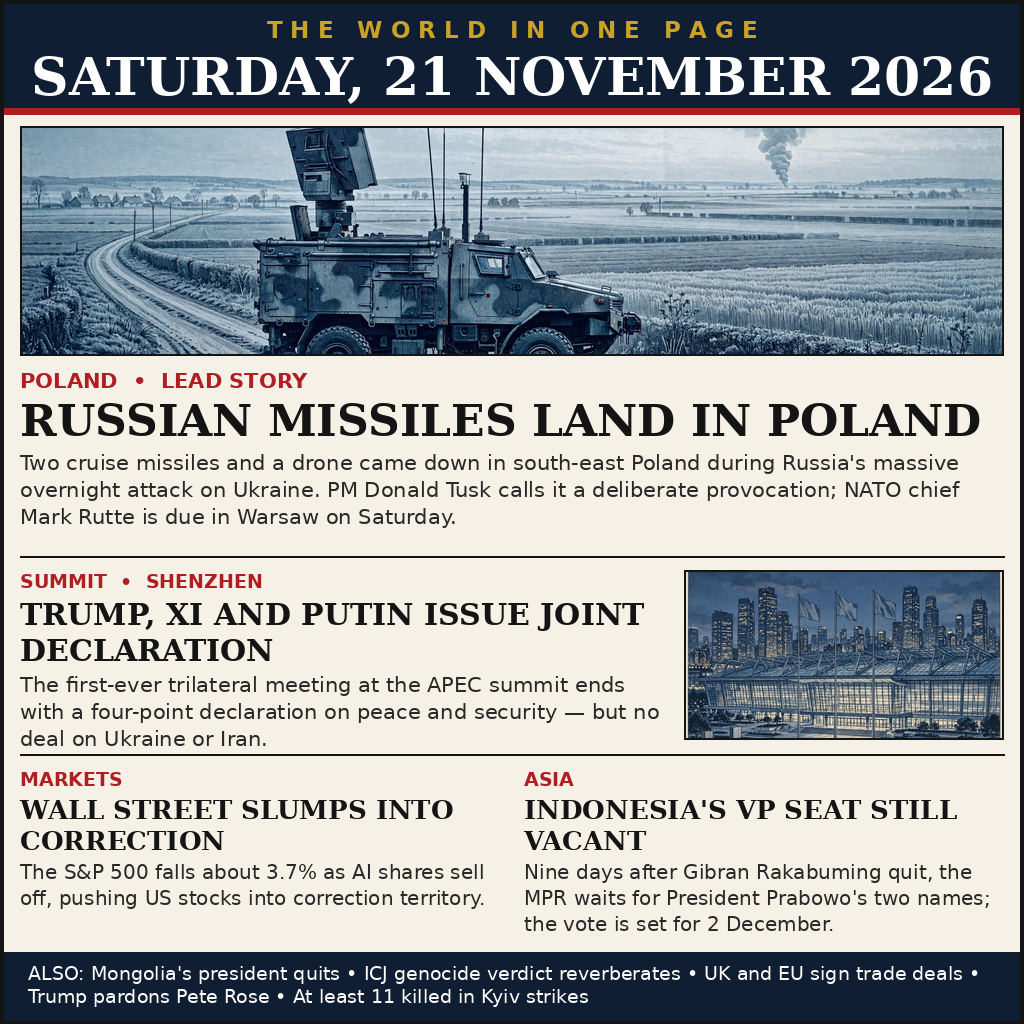
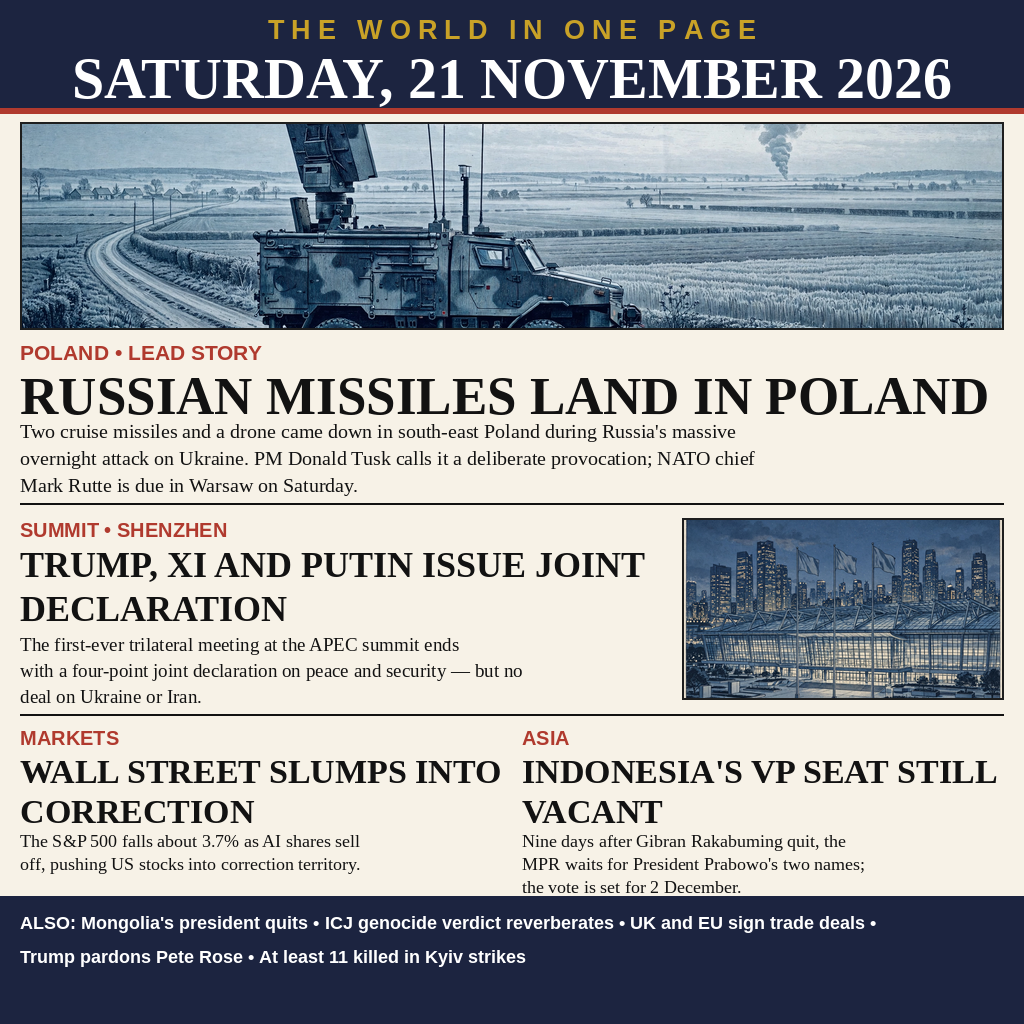
Rewrite draw_news21.py from scratch; regenerate entry.png with it

diff --git a/draw_news21.py b/draw_news21.py
@@ -1,200 +1,217 @@
 #!/usr/bin/env python3
-"""Compose the 21 November 2026 world-news front page (1024x1024).
+"""Compose the 21 November 2026 newspaper front page (entry.png).
 
-Layout (my own design for this edition): a navy masthead naming the day,
-a wide lead photograph with headline and deck, a second story with its
-picture on the right and text on the left, two short panels side by side,
-and a navy ticker footer. Two text-free press illustrations live in
-assets/ (a Polish air-defence radar vehicle at dawn; the Shenzhen
-convention centre at dusk). Every word is set here with PIL so the text
-stays crisp. Deterministic: fixed inputs, no clock, no randomness.
-Writes entry.png next to this file; if the PNG would pass 1 MiB it
-writes JPEG bytes instead (same filename).
+Fresh implementation: PIL composites the two generated press-style
+illustrations in assets/ with programmatic typesetting (no AI text).
+
+Run:  python3 draw_news21.py   -> writes entry.png (1024x1024, < 1 MiB)
 """
-import os
+from pathlib import Path
 
 from PIL import Image, ImageDraw, ImageFont
 
-HERE = os.path.dirname(os.path.abspath(__file__))
-ASSETS = os.path.join(HERE, "assets")
-
+BASE = Path(__file__).resolve().parent
 W, H = 1024, 1024
 MARGIN = 20
-INNER = W - 2 * MARGIN
 
-PAPER = (246, 241, 231)
-INK = (20, 20, 20)
-NAVY = (15, 30, 51)
-RED = (176, 30, 36)
+PAPER = (247, 242, 231)
+NAVY = (28, 36, 64)
 GOLD = (201, 162, 39)
-GREY = (40, 40, 40)
+RED = (176, 58, 46)
+INK = (18, 18, 18)
+FRAME = (30, 30, 30)
 WHITE = (255, 255, 255)
 
-SERIF_BOLD = "/usr/share/fonts/truetype/dejavu/DejaVuSerif-Bold.ttf"
-SANS_BOLD = "/usr/share/fonts/truetype/dejavu/DejaVuSans-Bold.ttf"
-SANS = "/usr/share/fonts/truetype/dejavu/DejaVuSans.ttf"
+SERIF = [
+    "/usr/share/fonts/truetype/liberation/LiberationSerif-Regular.ttf",
+    "/usr/share/fonts/truetype/dejavu/DejaVuSerif.ttf",
+]
+SERIF_BOLD = [
+    "/usr/share/fonts/truetype/liberation/LiberationSerif-Bold.ttf",
+    "/usr/share/fonts/truetype/dejavu/DejaVuSerif-Bold.ttf",
+]
+SANS = [
+    "/usr/share/fonts/truetype/liberation/LiberationSans-Regular.ttf",
+    "/usr/share/fonts/truetype/dejavu/DejaVuSans.ttf",
+]
+SANS_BOLD = [
+    "/usr/share/fonts/truetype/liberation/LiberationSans-Bold.ttf",
+    "/usr/share/fonts/truetype/dejavu/DejaVuSans-Bold.ttf",
+]
 
-_cache = {}
+_font_cache = {}
 
 
-def font(path, size):
-    key = (path, size)
-    if key not in _cache:
-        _cache[key] = ImageFont.truetype(path, size)
-    return _cache[key]
+def font(paths, size):
+    """First usable font from the candidate list, cached per size."""
+    key = (tuple(paths), size)
+    if key in _font_cache:
+        return _font_cache[key]
+    for path in paths:
+        try:
+            found = ImageFont.truetype(path, size)
+            _font_cache[key] = found
+            return found
+        except (OSError, IOError):
+            continue
+    found = ImageFont.load_default()
+    _font_cache[key] = found
+    return found
 
 
-def fit(draw, text, path, size, max_width):
-    """Largest size at or below `size` that fits `max_width`."""
-    while size > 10 and draw.textlength(text, font=font(path, size)) > max_width:
+def fit(paths, text, start, width, minimum=10):
+    """Largest font size (<= start) at which text fits inside width."""
+    size = start
+    while size > minimum:
+        candidate = font(paths, size)
+        if candidate.getlength(text) <= width:
+            return candidate
         size -= 1
-    return font(path, size)
+    return font(paths, minimum)
 
 
-def wrap(draw, text, fnt, max_width):
-    lines, cur = [], ""
-    for word in text.split():
-        trial = (cur + " " + word).strip()
-        if draw.textlength(trial, font=fnt) <= max_width:
-            cur = trial
-        elif cur:
-            lines.append(cur)
-            cur = word
-        else:
-            cur = word
-    if cur:
-        lines.append(cur)
-    return lines
+def tracked_width(f, text, tracking):
+    return sum(f.getlength(ch) for ch in text) + tracking * max(0, len(text) - 1)
 
 
-def para(draw, x, y, lines, fnt, fill, leading):
+def draw_tracked(d, cx, y, text, f, fill, tracking):
+    """Draw text centred on cx with extra space between letters."""
+    total = tracked_width(f, text, tracking)
+    x = cx - total / 2
+    for ch in text:
+        d.text((x, y), ch, font=f, fill=fill)
+        x += f.getlength(ch) + tracking
+
+
+def cover(img, w, h, fx=0.5, fy=0.5):
+    """Scale the image to cover w x h, then crop around the focus point."""
+    iw, ih = img.size
+    scale = max(w / iw, h / ih)
+    nw, nh = round(iw * scale), round(ih * scale)
+    img = img.resize((nw, nh), Image.LANCZOS)
+    cx = min(max(fx * nw, w / 2), nw - w / 2)
+    cy = min(max(fy * nh, h / 2), nh - h / 2)
+    return img.crop((round(cx - w / 2), round(cy - h / 2),
+                     round(cx + w / 2), round(cy + h / 2)))
+
+
+def place_photo(page, box, path, focus=(0.5, 0.5)):
+    """Paste an illustration into box, cover-cropped, with a thin frame."""
+    x0, y0, x1, y1 = box
+    with Image.open(path) as im:
+        im = cover(im.convert("RGB"), x1 - x0, y1 - y0, *focus)
+    page.paste(im, (x0, y0))
+    d = ImageDraw.Draw(page)
+    d.rectangle([x0, y0, x1 - 1, y1 - 1], outline=FRAME, width=2)
+
+
+def headline(d, lines, x, y, width, start, leading):
+    """Bold serif headline; size shrinks until the widest line fits."""
+    probe = font(SERIF_BOLD, start)
+    widest = max(lines, key=lambda s: probe.getlength(s))
+    f = fit(SERIF_BOLD, widest, start, width)
     for line in lines:
-        draw.text((x, y), line, font=fnt, fill=fill)
+        d.text((x, y), line, font=f, fill=INK)
         y += leading
     return y
 
 
-def cover(image, width, height):
-    sw, sh = image.size
-    scale = max(width / sw, height / sh)
-    big = image.resize((round(sw * scale), round(sh * scale)), Image.LANCZOS)
-    left = (big.width - width) // 2
-    top = (big.height - height) // 2
-    return big.crop((left, top, left + width, top + height))
+def body_lines(d, lines, x, y, width, size, leading):
+    """Regular serif paragraph from pre-broken lines (each autofit)."""
+    for line in lines:
+        f = font(SERIF, size)
+        if f.getlength(line) > width:
+            f = fit(SERIF, line, size, width)
+        d.text((x, y), line, font=f, fill=INK)
+        y += leading
+    return y
 
 
-def kicker(draw, x, y, text, size=21):
-    draw.text((x, y), text, font=font(SANS_BOLD, size), fill=RED)
+def kicker(d, text, x, y, size=21):
+    f = font(SANS_BOLD, size)
+    d.text((x, y), text, font=f, fill=RED)
+    return y
 
 
-def head(draw, x, y, text, size, width, leading, fill=INK):
-    fnt = font(SERIF_BOLD, size)
-    return para(draw, x, y, wrap(draw, text, fnt, width), fnt, fill, leading)
+def rule(d, y, x0=MARGIN, x1=W - MARGIN, width=2):
+    d.rectangle([x0, y, x1 - 1, y + width - 1], fill=INK)
 
 
-def deck(draw, x, y, text, size, width, leading):
-    fnt = font(SANS, size)
-    return para(draw, x, y, wrap(draw, text, fnt, width), fnt, GREY, leading)
-
-
-def build():
-    poland = Image.open(os.path.join(
-        ASSETS,
-        "media-generation-poland-dawn-0-f03972f8-b11b-40e8-9a68-f937f0d83824.webp"))
-    shenzhen = Image.open(os.path.join(
-        ASSETS,
-        "media-generation-shenzhen-dusk-0-6ab2ed24-4f73-4426-be4b-20a1bf6cb004.webp"))
-
+def main():
     page = Image.new("RGB", (W, H), PAPER)
     d = ImageDraw.Draw(page)
-    d.rectangle([0, 0, W - 1, H - 1], outline=INK, width=4)
 
-    # Masthead.
-    d.rectangle([4, 4, W - 5, 108], fill=NAVY)
-    tag = "T H E   W O R L D   I N   O N E   P A G E"
-    tag_font = font(SANS_BOLD, 23)
-    d.text(((W - d.textlength(tag, font=tag_font)) / 2, 16),
-           tag, font=tag_font, fill=GOLD)
-    date = "SATURDAY, 21 NOVEMBER 2026"
-    date_font = fit(d, date, SERIF_BOLD, 56, INNER - 10)
-    d.text(((W - d.textlength(date, font=date_font)) / 2, 46),
-           date, font=date_font, fill=WHITE)
-    d.rectangle([4, 108, W - 5, 114], fill=RED)
+    # --- masthead ---
+    d.rectangle([0, 0, W - 1, 107], fill=NAVY)
+    d.rectangle([0, 108, W - 1, 113], fill=RED)
+    gold = font(SANS_BOLD, 27)
+    draw_tracked(d, W // 2, 14, "THE WORLD IN ONE PAGE", gold, GOLD, 7)
+    date_text = "SATURDAY, 21 NOVEMBER 2026"
+    date_f = fit(SERIF_BOLD, date_text, 58, W - 2 * MARGIN)
+    date_w = date_f.getlength(date_text)
+    d.text(((W - date_w) / 2, 46), date_text, font=date_f, fill=WHITE)
 
-    # Lead: Poland photograph, headline, deck.
-    page.paste(cover(poland, INNER, 230), (MARGIN, 126))
-    d.rectangle([MARGIN, 126, MARGIN + INNER - 1, 126 + 230 - 1],
-                outline=INK, width=2)
-    y = 368
-    kicker(d, MARGIN, y, "POLAND  •  LEAD STORY")
-    y = head(d, MARGIN, 394, "RUSSIAN MISSILES LAND IN POLAND",
-             44, INNER, 50)
-    y += 6
-    deck(d, MARGIN, y,
-         "Two cruise missiles and a drone came down in south-east Poland "
-         "during Russia's massive overnight attack on Ukraine. PM Donald "
-         "Tusk calls it a deliberate provocation; NATO chief Mark Rutte "
-         "is due in Warsaw on Saturday.",
-         21, INNER, 27)
+    # --- lead story: Poland ---
+    place_photo(page, (20, 122, 1004, 330),
+                BASE / "assets" / "media-generation-poland-dawn-0-f03972f8-b11b-40e8-9a68-f937f0d83824.webp",
+                focus=(0.5, 0.48))
+    kicker(d, "POLAND \u2022 LEAD STORY", 20, 340)
+    headline(d, ["RUSSIAN MISSILES LAND IN POLAND"], 20, 366, 984, 56, 60)
+    body_lines(d, [
+        "Two cruise missiles and a drone came down in south-east Poland during Russia's massive",
+        "overnight attack on Ukraine. PM Donald Tusk calls it a deliberate provocation; NATO chief",
+        "Mark Rutte is due in Warsaw on Saturday.",
+    ], 20, 420, 984, 20, 27)
+    rule(d, 503)
 
-    d.line([(MARGIN, 556), (MARGIN + INNER, 556)], fill=INK, width=2)
+    # --- second story: Shenzhen summit ---
+    kicker(d, "SUMMIT \u2022 SHENZHEN", 20, 518, size=20)
+    headline(d, ["TRUMP, XI AND PUTIN ISSUE JOINT", "DECLARATION"],
+             20, 544, 640, 40, 44)
+    body_lines(d, [
+        "The first-ever trilateral meeting at the APEC summit ends",
+        "with a four-point joint declaration on peace and security \u2014 but no",
+        "deal on Ukraine or Iran.",
+    ], 20, 634, 640, 19, 26)
+    place_photo(page, (682, 518, 1004, 700),
+                BASE / "assets" / "media-generation-shenzhen-dusk-0-6ab2ed24-4f73-4426-be4b-20a1bf6cb004.webp")
+    rule(d, 714)
 
-    # Second row: Shenzhen story, text left, picture right.
-    y0 = 570
-    tw = 640
-    kicker(d, MARGIN, y0, "SUMMIT  •  SHENZHEN", size=19)
-    y = head(d, MARGIN, y0 + 26,
-             "TRUMP, XI AND PUTIN ISSUE JOINT DECLARATION",
-             30, tw, 36)
-    deck(d, MARGIN, y + 4,
-         "The first-ever trilateral meeting at the APEC summit ends with "
-         "a four-point declaration on peace and security — but no deal "
-         "on Ukraine or Iran.",
-         21, tw, 27)
-    ix = MARGIN + tw + 24
-    page.paste(cover(shenzhen, INNER - tw - 24, 170), (ix, y0))
-    d.rectangle([ix, y0, ix + (INNER - tw - 24) - 1, y0 + 170 - 1],
-                outline=INK, width=2)
+    # --- bottom columns: markets and Asia ---
+    kicker(d, "MARKETS", 20, 726, size=20)
+    kicker(d, "ASIA", 522, 726, size=20)
+    headline(d, ["WALL STREET SLUMPS INTO", "CORRECTION"], 20, 752, 482, 36, 40)
+    headline(d, ["INDONESIA'S VP SEAT STILL", "VACANT"], 522, 752, 482, 36, 40)
+    body_lines(d, [
+        "The S&P 500 falls about 3.7% as AI shares sell",
+        "off, pushing US stocks into correction territory.",
+    ], 20, 830, 482, 18, 23)
+    body_lines(d, [
+        "Nine days after Gibran Rakabuming quit, the",
+        "MPR waits for President Prabowo's two names;",
+        "the vote is set for 2 December.",
+    ], 522, 830, 482, 18, 23)
 
-    d.line([(MARGIN, 754), (MARGIN + INNER, 754)], fill=INK, width=2)
+    # --- ticker ---
+    d.rectangle([0, 896, W - 1, H - 1], fill=NAVY)
+    ticker_lines = [
+        "ALSO: Mongolia's president quits \u2022 ICJ genocide verdict reverberates \u2022 UK and EU sign trade deals \u2022",
+        "Trump pardons Pete Rose \u2022 At least 11 killed in Kyiv strikes",
+    ]
+    for i, line in enumerate(ticker_lines):
+        f = font(SANS_BOLD, 18)
+        if f.getlength(line) > 984:
+            f = fit(SANS_BOLD, line, 18, 984)
+        d.text((20, 912 + i * 34), line, font=f, fill=WHITE)
 
-    # Third row: two panels.
-    col = (INNER - 24) // 2
-    y0 = 768
-    kicker(d, MARGIN, y0, "MARKETS", size=19)
-    y = head(d, MARGIN, y0 + 26, "WALL STREET SLUMPS INTO CORRECTION",
-             26, col, 31)
-    deck(d, MARGIN, y + 4,
-         "The S&P 500 falls about 3.7% as AI shares sell off, pushing "
-         "US stocks into correction territory.",
-         20, col, 26)
-
-    rx = MARGIN + col + 24
-    kicker(d, rx, y0, "ASIA", size=19)
-    y = head(d, rx, y0 + 26, "INDONESIA'S VP SEAT STILL VACANT",
-             26, col, 31)
-    deck(d, rx, y + 4,
-         "Nine days after Gibran Rakabuming quit, the MPR waits for "
-         "President Prabowo's two names; the vote is set for 2 December.",
-         20, col, 26)
-
-    # Footer ticker.
-    d.rectangle([4, 952, W - 5, 1020], fill=NAVY)
-    foot_font = font(SANS, 19)
-    ticker = ("ALSO:  Mongolia's president quits  •  ICJ genocide verdict "
-              "reverberates  •  UK and EU sign trade deals  •  Trump "
-              "pardons Pete Rose  •  At least 11 killed in Kyiv strikes")
-    y = 962
-    for line in wrap(d, ticker, foot_font, INNER - 16):
-        d.text((MARGIN + 8, y), line, font=foot_font, fill=WHITE)
-        y += 23
-
-    out = os.path.join(HERE, "entry.png")
+    out = BASE / "entry.png"
     page.save(out, format="PNG", optimize=True)
-    if os.path.getsize(out) > 1048576:
-        page.save(out, format="JPEG", quality=88, optimize=True)
-    print("wrote", out, os.path.getsize(out), "bytes")
+    size = out.stat().st_size
+    print(f"wrote {out} {page.size[0]}x{page.size[1]} {size} bytes")
+    if size >= 1024 * 1024:
+        print("WARNING: entry.png is 1 MiB or larger")
+    return 0
 
 
 if __name__ == "__main__":
-    build()
+    raise SystemExit(main())
